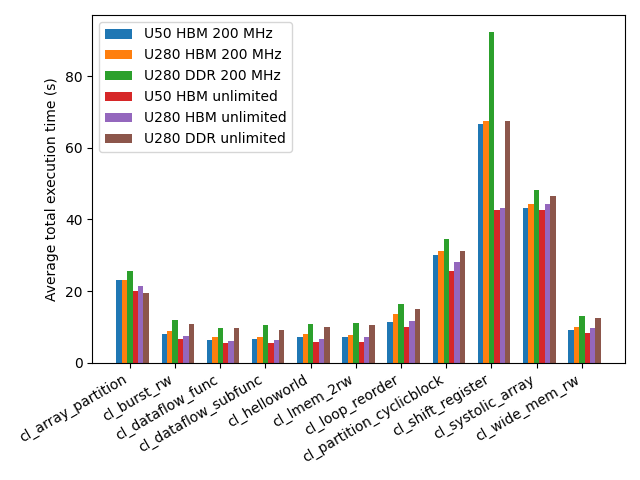
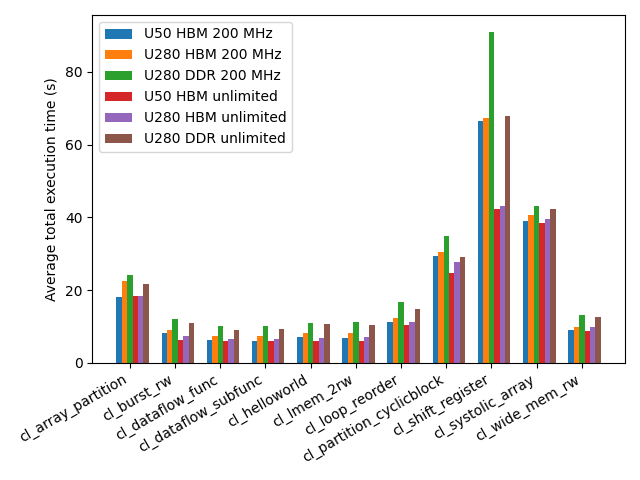
Update data (new time_cpu measurement)

diff --git a/performance/execution-time-widemem.py b/performance/execution-time-widemem.py
@@ -14,7 +14,7 @@ df_u280_ddr_fast = pd.read_csv("../data/u280-ddr-fast-vitis.csv", skipinitialspa
 
 # Sum up data transfer + kernel execution time
 for df in [df_u50_slow, df_u50_fast, df_u280_slow, df_u280_fast, df_u280_ddr_slow, df_u280_ddr_fast]:
-    df["transfer+kernel"] = df["data_to_fpga_cpu"] + df["kernel_cpu"] + df["data_to_host_cpu"]
+    df["transfer+kernel"] = df["data_to_fpga_ocl"] + df["kernel_ocl"] + df["data_to_host_ocl"]
 
 bar_width = 0.12
 app_names = df_u50_slow["app_name"].values

diff --git a/performance/execution-time.py b/performance/execution-time.py
@@ -14,7 +14,7 @@ df_u280_ddr_fast = pd.read_csv("../data/u280-ddr-fast-vitis.csv", skipinitialspa
 
 # Sum up data transfer + kernel execution time
 for df in [df_u50_slow, df_u50_fast, df_u280_slow, df_u280_fast, df_u280_ddr_slow, df_u280_ddr_fast]:
-    df["transfer+kernel"] = df["data_to_fpga_cpu"] + df["kernel_cpu"] + df["data_to_host_cpu"]
+    df["transfer+kernel"] = df["data_to_fpga_ocl"] + df["kernel_ocl"] + df["data_to_host_ocl"]
 
 bar_width = 0.12
 app_names = df_u50_slow["app_name"].values

diff --git a/performance/speedup.py b/performance/speedup.py
@@ -17,7 +17,7 @@ fpga_configs = ["u50_hbm", "u280_hbm", "u280_ddr"]
 
 # Sum up data transfer + kernel execution time
 for df in [df_u50_slow, df_u50_fast, df_u280_slow, df_u280_fast, df_u280_ddr_slow, df_u280_ddr_fast]:
-    df["transfer+kernel"] = df["data_to_fpga_cpu"] + df["kernel_cpu"] + df["data_to_host_cpu"]
+    df["transfer+kernel"] = df["data_to_fpga_ocl"] + df["kernel_ocl"] + df["data_to_host_ocl"]
 
 apps = df_u50_slow["app_name"].values
 num_apps = len(apps)
